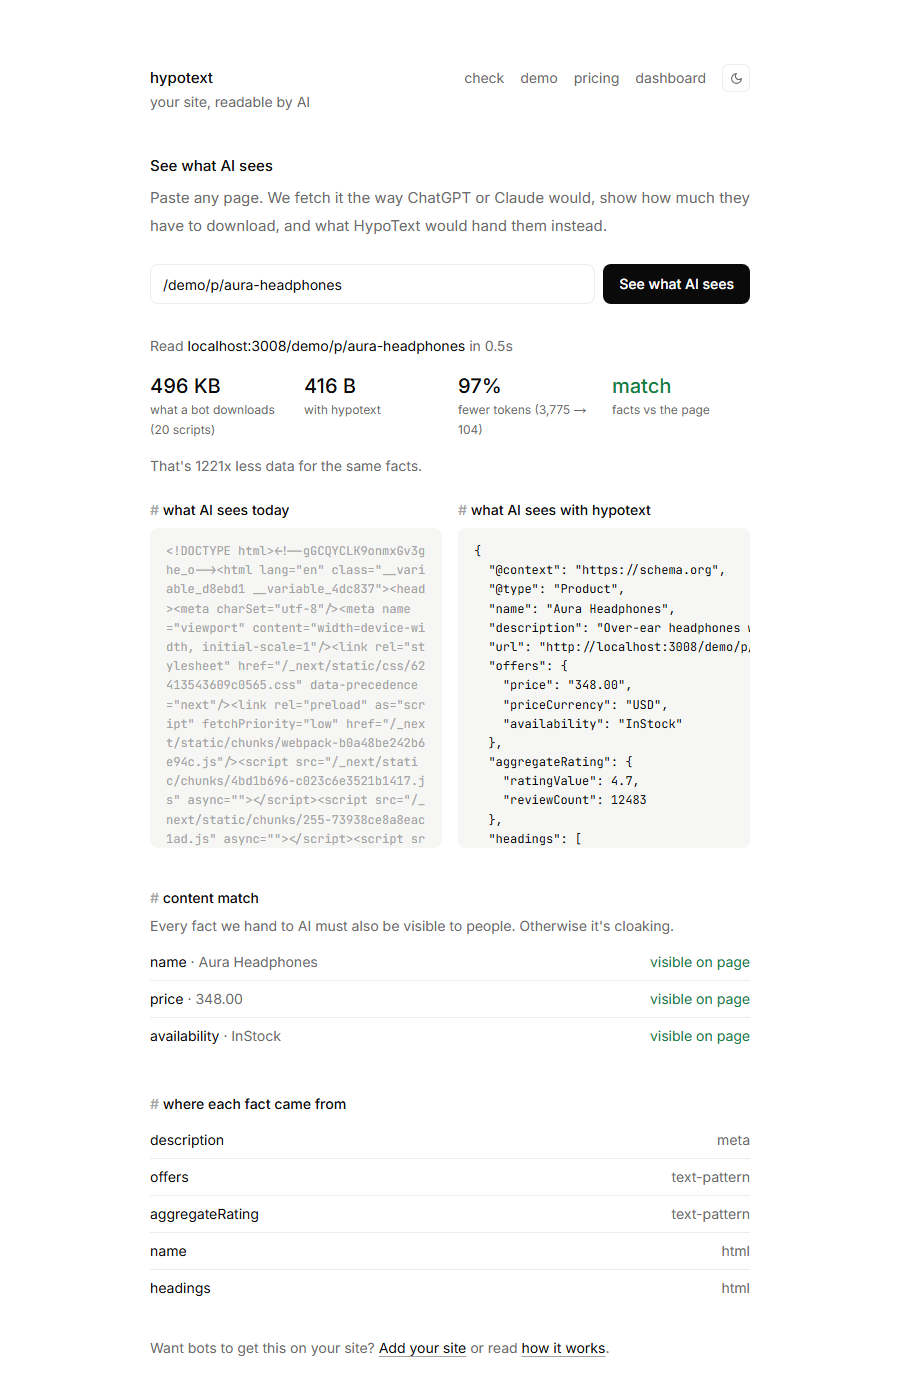
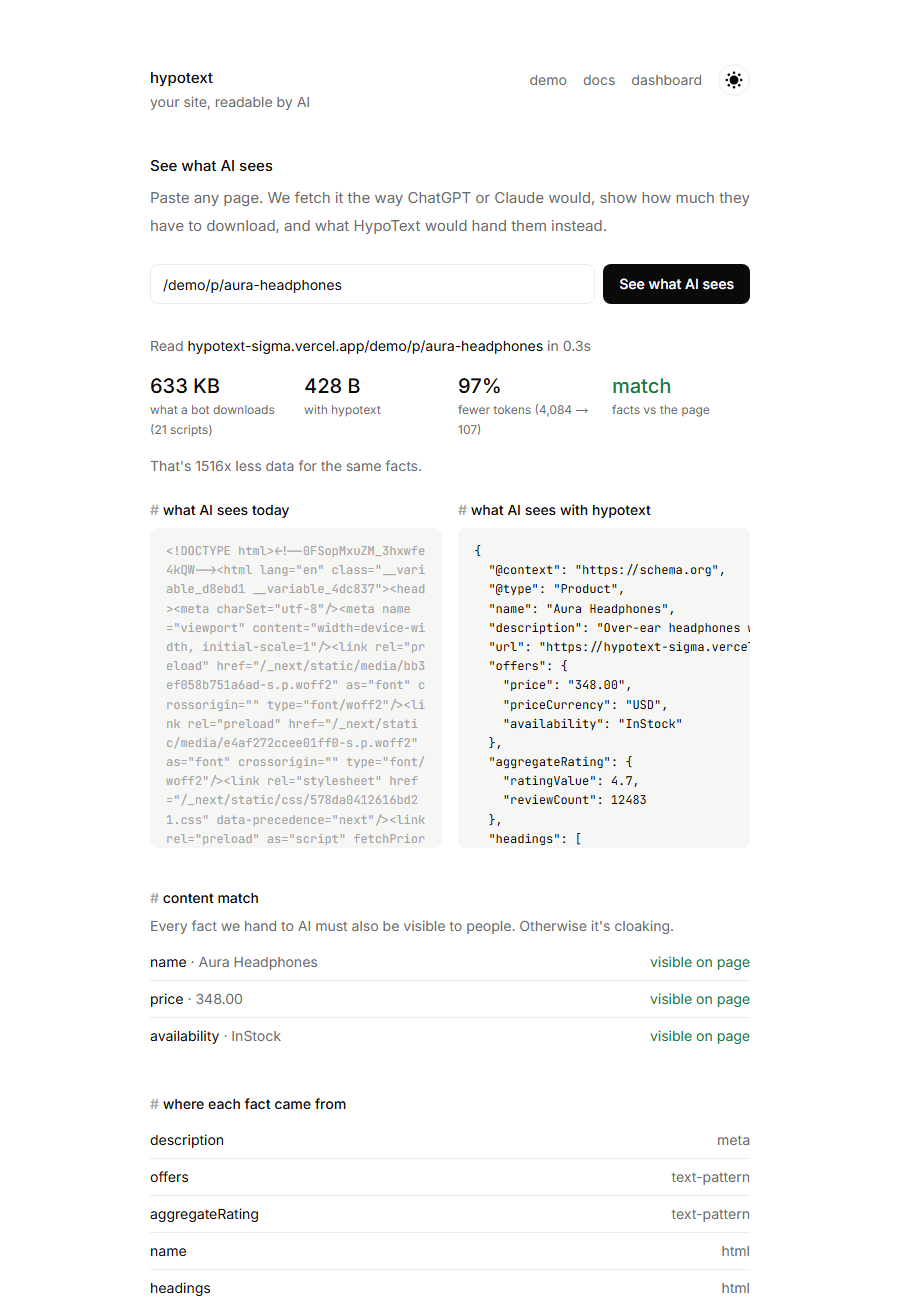
Rework README for reviewers and refresh screenshots
Lead with the product and a landing screenshot, describe the demo as
clicks instead of curl commands, keep one curl line for checking an
install, and retake all screenshots from the live site.

diff --git a/README.md b/README.md
@@ -1,113 +1,104 @@
 # HypoText
 
-**Your site, readable by AI.** People get your normal pages. AI agents like ChatGPT, Claude and Perplexity get a small, accurate JSON version of the same page, from the same URL.
+**Make your website readable by AI.** ChatGPT, Claude and Perplexity read web pages to answer questions. HypoText gives them a clean, accurate version of each page, while people keep seeing your normal site. Same link, two answers.
 
-```bash
-curl https://hypotext-sigma.vercel.app/demo/p/aura-headphones                # people: ~500 KB of HTML, JS and CSS
-curl -A "GPTBot" https://hypotext-sigma.vercel.app/demo/p/aura-headphones    # AI: ~400 bytes of JSON
-```
-
-```json
-{
-  "@context": "https://schema.org",
-  "@type": "Product",
-  "name": "Aura Headphones",
-  "description": "Over-ear headphones with adaptive noise cancelling, 30 hours of battery and a fold-flat design for travel.",
-  "offers": { "price": "348.00", "priceCurrency": "USD", "availability": "InStock" },
-  "aggregateRating": { "ratingValue": 4.7, "reviewCount": 12483 }
-}
-```
+![HypoText landing page](docs/screens/home.png)
 
 ## Overview
 
-About half of web traffic is now AI agents. They don't need pixels, they need facts. On a modern JavaScript site, an agent downloads megabytes of code to find one price, burns tokens on markup, and often gets the price or stock wrong. The common fixes (blocking bots, building a separate API, adding schema tags by hand) either make you invisible to AI or take months.
+About half of web traffic is now AI agents. They don't need pixels, they need facts. On a modern JavaScript site, an agent downloads hundreds of kilobytes of code to find one price, burns tokens on markup, and often gets the price or stock wrong. The usual fixes either make a site invisible to AI (blocking bots) or take months (building a separate API).
 
-HypoText is a layer in front of your site. It recognises AI agents, reads your rendered page, pulls out the facts, checks that people can see those same facts, and returns them as schema.org JSON. People see no change.
+HypoText sits in front of a website. When an AI agent asks for a page, HypoText reads that page, pulls out the facts (name, price, stock, rating, description), checks that people can see those same facts, and sends them back as a small schema.org JSON document. People see no change.
+
+On the demo product, that's **633 KB for a person versus 428 bytes for an AI agent**, about 1,500 times less data for the same facts.
 
 ## Walkthrough
 
-**1. See what AI sees.** Paste any URL. HypoText fetches it the way a bot would and shows what the bot downloads, the JSON it would get instead, the token saving, a content match and which rule produced each fact.
+**1. See what AI sees.** Paste any page link on the home page. HypoText fetches it the way a bot would and shows how much the bot has to download, the JSON it would get instead, the tokens saved, whether the facts match the visible page, and which rule found each fact.
 
 ![See what AI sees](docs/screens/check.png)
 
-**2. Try the demo store.** A sample shop runs behind HypoText. Browse it normally, then press *View as GPTBot* or `curl` it with a bot user agent. It also serves `/demo/llms.txt`.
+**2. Try the demo store.** Open *demo* in the menu. It's a small shop running behind HypoText. Open any product and press **View as GPTBot** to see exactly what an AI agent receives for that same page. The store also has an AI site map at `/demo/llms.txt`.
 
 ![Demo store](docs/screens/demo.png)
 
-**3. Watch the dashboard.** Every AI visit is logged: who's reading, which pages, bandwidth saved, and whether each page's facts match what people see.
+**3. Watch the dashboard.** Open *dashboard* → *demo store*. Every AI visit is logged: which agents are reading, which pages, how much bandwidth was saved, and whether each page's facts match what people see.
 
 ![Dashboard](docs/screens/dashboard.png)
 
 ## Workflow
 
 ```
-request → your site → @hypotext/next middleware
-                          │
-        person ───────────┴─────────── AI agent (GPTBot, ClaudeBot, …)
-          │                                   │
-   your normal page                 /api/v1/serve
-                                      1. reuse JSON if read < 60s ago
-                                      2. else fetch the live page (bypass header)
-                                      3. extract facts (rules below)
-                                      4. content match: are they visible?
-                                      5. log the visit
-                                    match → 200 JSON
-                                    no match / error → bot gets normal page
+visitor → website → HypoText middleware
+                         │
+       person ───────────┴─────────── AI agent (GPTBot, ClaudeBot, …)
+         │                                   │
+  normal page                      1. reuse the JSON if read in the last minute
+                                   2. otherwise read the live page
+                                   3. pull out the facts
+                                   4. check the facts are visible to people
+                                   5. log the visit
+                                   facts match  → clean JSON
+                                   no match     → normal page
 ```
 
-Facts are extracted with rules only, in priority order: existing **JSON-LD**, then **OpenGraph/meta** tags, then **microdata**, then **text patterns** for price, currency, stock and rating near the main heading, then **title, headings and opening text**.
+Facts are found with fixed rules, no AI model, in this order: structured data already on the page (JSON-LD), then OpenGraph and meta tags, then microdata, then price, stock and rating text near the main heading, then the title, headings and opening paragraphs.
 
 ## How to use it
 
-1. Open **Dashboard** and add your domain. You get a site key. There's no account: the key is remembered in a secure cookie on your browser.
-2. Add the key to your environment as `HYPOTEXT_KEY`, then create `middleware.ts`:
+1. Open **dashboard** and add your domain. You get a site key. There's no account: the key is remembered in a secure cookie on your browser.
+2. Add the key to your environment as `HYPOTEXT_KEY` and add this file to your Next.js app:
    ```ts
+   // middleware.ts
    import { hypotext } from "@hypotext/next";
    export default hypotext({ siteKey: process.env.HYPOTEXT_KEY! });
    ```
-3. Deploy, then press **Check install**, or run `curl -A GPTBot https://yoursite.com`.
-4. Add `?view=ai` to any page to preview the AI version in your browser.
+3. Deploy, then press **Check install** on the dashboard.
+4. Add `?view=ai` to any page in your browser to see what AI agents get. From a terminal, you can also pretend to be GPTBot:
+   ```bash
+   curl -A "GPTBot" https://yoursite.com/any-page
+   ```
 
 Not on Next.js? Any server or edge function can call `GET /api/v1/serve?key=…&url=…&bot=…` when an AI agent visits.
 
 ## Best features
 
-- **Same URL, two answers.** People get your page and agents get JSON. There are no separate endpoints for agents to discover.
-- **No code changes.** HypoText reads your rendered page, so any stack works and nothing needs rebuilding.
+- **Same link, two answers.** People get the page and agents get JSON. There's no separate endpoint for agents to find.
+- **No rebuild.** HypoText reads the page as it already is, so it works with any design or framework.
 - **Live, not snapshots.** Pages are re-read at most once a minute, so prices and stock stay current.
-- **Cloaking-safe.** Every fact served is checked against the visible page. Mismatches are held back.
-- **Fails open.** If HypoText is slow or down, bots get your normal page.
-- **Explainable.** Every field shows which rule produced it.
-- **`llms.txt` for free.** You get a plain-text site map for agents.
-- **Bot analytics.** See who's reading, what, and how much bandwidth you saved.
+- **Safe with search engines.** Every fact sent to AI is checked against the visible page. If they don't match, the agent gets the normal page.
+- **Fails safely.** If HypoText is slow or down, agents get the normal page.
+- **Explainable.** Every fact shows which rule found it.
+- **`llms.txt` included.** You get a plain-text map of the site for AI agents.
+- **Bot analytics.** See which agents read the site, what they read, and how much bandwidth was saved.
 
 ## Limitations
 
-- The `@hypotext/next` npm package isn't published yet. The same code runs this site's demo store from `src/lib/hypotext.ts`.
-- Bots are recognised by user agent only. A bot that pretends to be a browser isn't caught (no TLS fingerprinting or IP verification yet).
-- Extraction is rules-based. Pages with no structured data and unusual layouts give thinner JSON (title, headings, summary). An LLM fallback could fill those gaps later.
-- The content match covers name, price and stock, not every field.
-- Pages that render all their content in the browser (no server HTML) can't be read yet. There's no headless browser.
-- The first bot request to a page waits for one live fetch (usually under 1 second). Later requests are cached for 60 seconds.
+- The `@hypotext/next` package isn't published to npm yet. The same code runs this site's demo store, from `src/lib/hypotext.ts`.
+- AI agents are recognised by the name they announce (user agent). A bot pretending to be a normal browser isn't caught.
+- Facts are found by rules, not an AI model. Pages with no structured data and unusual layouts give thinner results (title, headings, summary).
+- The content match checks name, price and stock, not every field.
+- Pages that build all their content in the browser can't be read yet, because there's no headless browser.
+- The first agent visit to a page waits for one live read (usually under a second). Later visits within a minute are instant.
 - Sites are tied to a browser cookie, not a user account.
 
 ## Run locally
 
 ```bash
 npm install
-npm run dev            # http://localhost:3000
+npm run dev
 ```
 
-Storage is in-memory by default. Set `DATABASE_URL` (Postgres, for example Neon) to persist sites, pages and visits; tables are created on first use. `NEXT_PUBLIC_SITE_URL` sets the origin shown in examples.
+Then open http://localhost:3000. Data is kept in memory locally. Set `DATABASE_URL` to a Postgres database (such as Neon) to keep sites, pages and visits; tables are created on first use.
 
-## Stack
+## Tech stack
 
-Next.js 15 (App Router, middleware), TypeScript, Tailwind CSS 4, cheerio, Neon Postgres.
+Next.js 15 (App Router, Server Actions, Middleware), React 19, TypeScript, Tailwind CSS 4, cheerio, Neon Postgres, framer-motion and the View Transitions API, hosted on Vercel.
 
 | File | What it does |
 | --- | --- |
 | `src/lib/hypotext.ts` | The middleware: spots AI agents and answers them with JSON |
-| `src/lib/bots.ts` | Known AI agents, matched by user agent |
+| `src/lib/bots.ts` | The list of known AI agents |
 | `src/lib/extract.ts` | Pulls facts out of a page, rule by rule |
 | `src/lib/parity.ts` | Checks those facts are visible to people |
 | `src/lib/render.ts` | Fetches a page and measures it |
